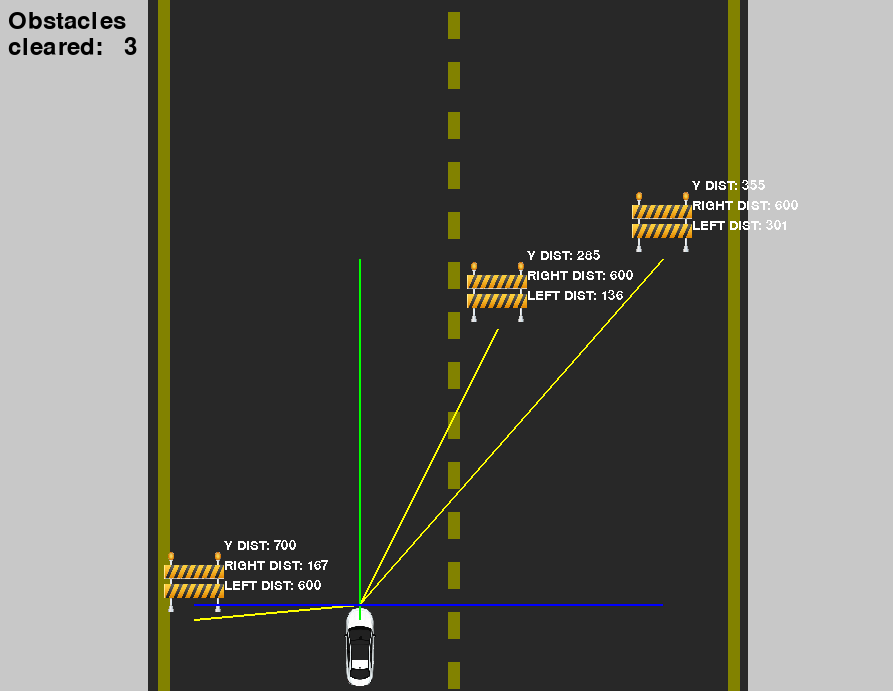
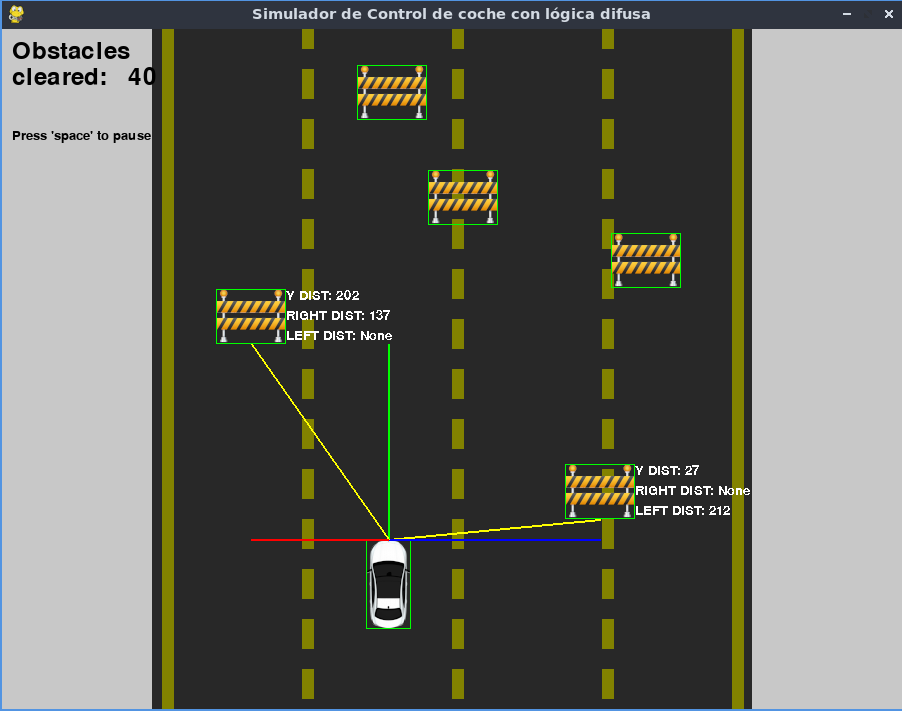
stop simulation + readme update

diff --git a/elements/environment.py b/elements/environment.py
@@ -40,8 +40,21 @@ class Environment:
         self.colors = colors # TODO arerglar esto: todos estan accediendo directamente 
         # a colors y constants cuando deberían acceder a self.colors y self.const
         # TODO self.obstacles = [] # y todos los cambios que esto conlleve
-        
 
+    @staticmethod
+    def pause_with_key(event, key):
+        if event.key == key:
+            flag = True
+            while flag:
+                for event in pg.event.get():
+                    if event.type == pg.KEYDOWN:
+                        if event.key == key:
+                            flag = False
+                    elif event.type == pg.QUIT:
+                        pg.quit()
+                        exit()
+
+    @staticmethod
     def moveInTimeIntervals(car, time_offset, start_time, last_time):
 
         if time_offset:

diff --git a/main.py b/main.py
@@ -48,9 +48,11 @@ def simulate():
         for event in pg.event.get():
             if event.type == pg.QUIT:
                 running = False
+            elif event.type == pg.KEYDOWN:
+                Environment.pause_with_key(event, pg.K_SPACE)
 
         screen.fill(clrs.GRAY)
-        monitor.draw_road(screen, 4)
+        monitor.draw_road(screen, 3)
 
         # activate sensors
         dist_y, dist_right, dist_left, dist_center = car.get_sensor_measurings(obstacles)

diff --git a/monitor.py b/monitor.py
@@ -91,6 +91,8 @@ def display_monitor_text(screen, score):
     score_text2 = font.render(f"cleared:   {score}", True, clrs.BLACK)
     screen.blit(score_text1, (10, 10))
     screen.blit(score_text2, (10, 36))
+    info = distance_font.render("Press 'space' to pause", True, clrs.BLACK)
+    screen.blit(info, (10, 100))
 
 
 def endgame_text(screen, score, start_time):

diff --git a/README.md b/README.md
@@ -28,7 +28,10 @@ Welcome to the Fuzzy Car Simulator! This project simulates a car controlled by f
 
 The Fuzzy Car Simulator is a Python-based project that uses fuzzy logic to control a car's movement. The car navigates through a simulated environment, avoiding obstacles and responding to sensor inputs. The project leverages the `pygame` library for the simulation and `scikit-fuzzy` for fuzzy logic control.
 
-<img src="docs/simulator_thumbnail.png" width="500">
+<img src="docs/simulator_thumbnail.png" width="400">
+</img>
+
+<img src="docs/simulator_thumbnail_2.png" width="400">
 </img>
 
 <a name="headers"/>
@@ -127,12 +130,12 @@ IDEA: check how pygame's surfaces work to use those
 - [ ] logic to make nearest obstacles called only when it's really needed: each time one of the nearest dissapears (a new nearest must be determined)
 - [ ] better performance by decoupling the graphic fps's from the logic ones: make something that only triggers control and nearest obstacles functions each x seconds 
 - [ ] add press q to quit in deathscreen so that you can see the death images and enalize failures
-- [ ] add pause simulation button
-- [ ] implement moving to center in fuzzy rules
+- [x] add pause simulation button
+- [x] implement moving to center in fuzzy rules
 - [ ] Adjust spawn rate of obstacles and prevent impossible spawns and blockages:
     - [x] no obstacle overlap
     - [ ] no "barriers": spawns in line that don't leave room for the car to fit between them
-    - [ ] set a maximum number of obstacles allowed
+    - [x] set a maximum number of obstacles allowed
 - [x] Adjust controller: too many obstacles on one side overpower one very close on the other
 - [x] Adjust defuzz method an possibly some membership functions (change to trapezoidal, move fuzzy numbers)
 - [ ] Write unit tests 
@@ -148,7 +151,7 @@ IDEA: check how pygame's surfaces work to use those
 - [ ] Make car change angle when turning
 - [ ] Make road lines move for a more dynamic environment
 - [ ] Randomize obstacle images
-- [ ] modificar las constantes de dimensión para que dependan del obstáculo, si no randomizarlos es imosible
+- [x] modificar las constantes de dimensión para que dependan del obstáculo, si no randomizarlos es imosible
 - [ ] do some typing for the modules
 - [ ] add an argsparser, and take spawn methods as arguments, as well as options for hitboxes, showing sensor views and activating collisions
 - [ ] FIX THIS BUG: using the `front_of_car` argument for the `spawn_despawn_obstacles` method causes the obstacles to spawn NOT in front, but only with certain image sizes for the obstacles and car. Possible fixes: figure out the formula to align both, wich might be impossible for all car/obstacle pairs given the x and y coordinates are integers. Another option would be to force the images to have a certain width ratio with respect to one another, so that the formula can always apply. Finally the easiest is just enforce constant widths, non mutable, and ensure all of them allow the proper center spawn calculations. 
@@ -167,16 +170,18 @@ IDEA: check how pygame's surfaces work to use those
     - bug in the sensors: i stopped the y_coords after the front was passed, it
 caused the car to crash from behind upon passing
     - computer shut off suddenly due to unknown reasons after implementing k nearest obstacles.
+    - problems in return to center with road-relative coordinates + clashing rules
+    - introducing k nearest poses the question of what parameters are better
 
 ### Ideas
 - Several controllers finetuned to specific scenarios. For example one for close and dense vehicle situations, and another one for few vehicles in a long range (avoids preventively).
-- Following this idea, wo could have:
+- Following this idea, we could have:
     - A controller with few and smooth rules that operate for long distances, since far away cases don't need as much precision.
     - A controller for more close situations (determined by the number of obstacles and their proximity maybe), that would have more rules but would deactivate as soon as the obstacles leave the range.
 - Having the 'higher' parameter only for the most critical rule ensures it will always overpower others even in many vehicle scenarios.
 - Some optimization is needed for the code to work properly. A profiling tool would be useful.
 - It could be smart to make the sensors have a 'radius' that only returns the k nearest obstacle's data.
-- Introducing random noise could be an interesting way of checking other benefits of the fuzzy controller.
+- Introducing random noise in the sensors could be an interesting way of checking other benefits of the fuzzy controller.
 
 <a name="headers"/>
 
